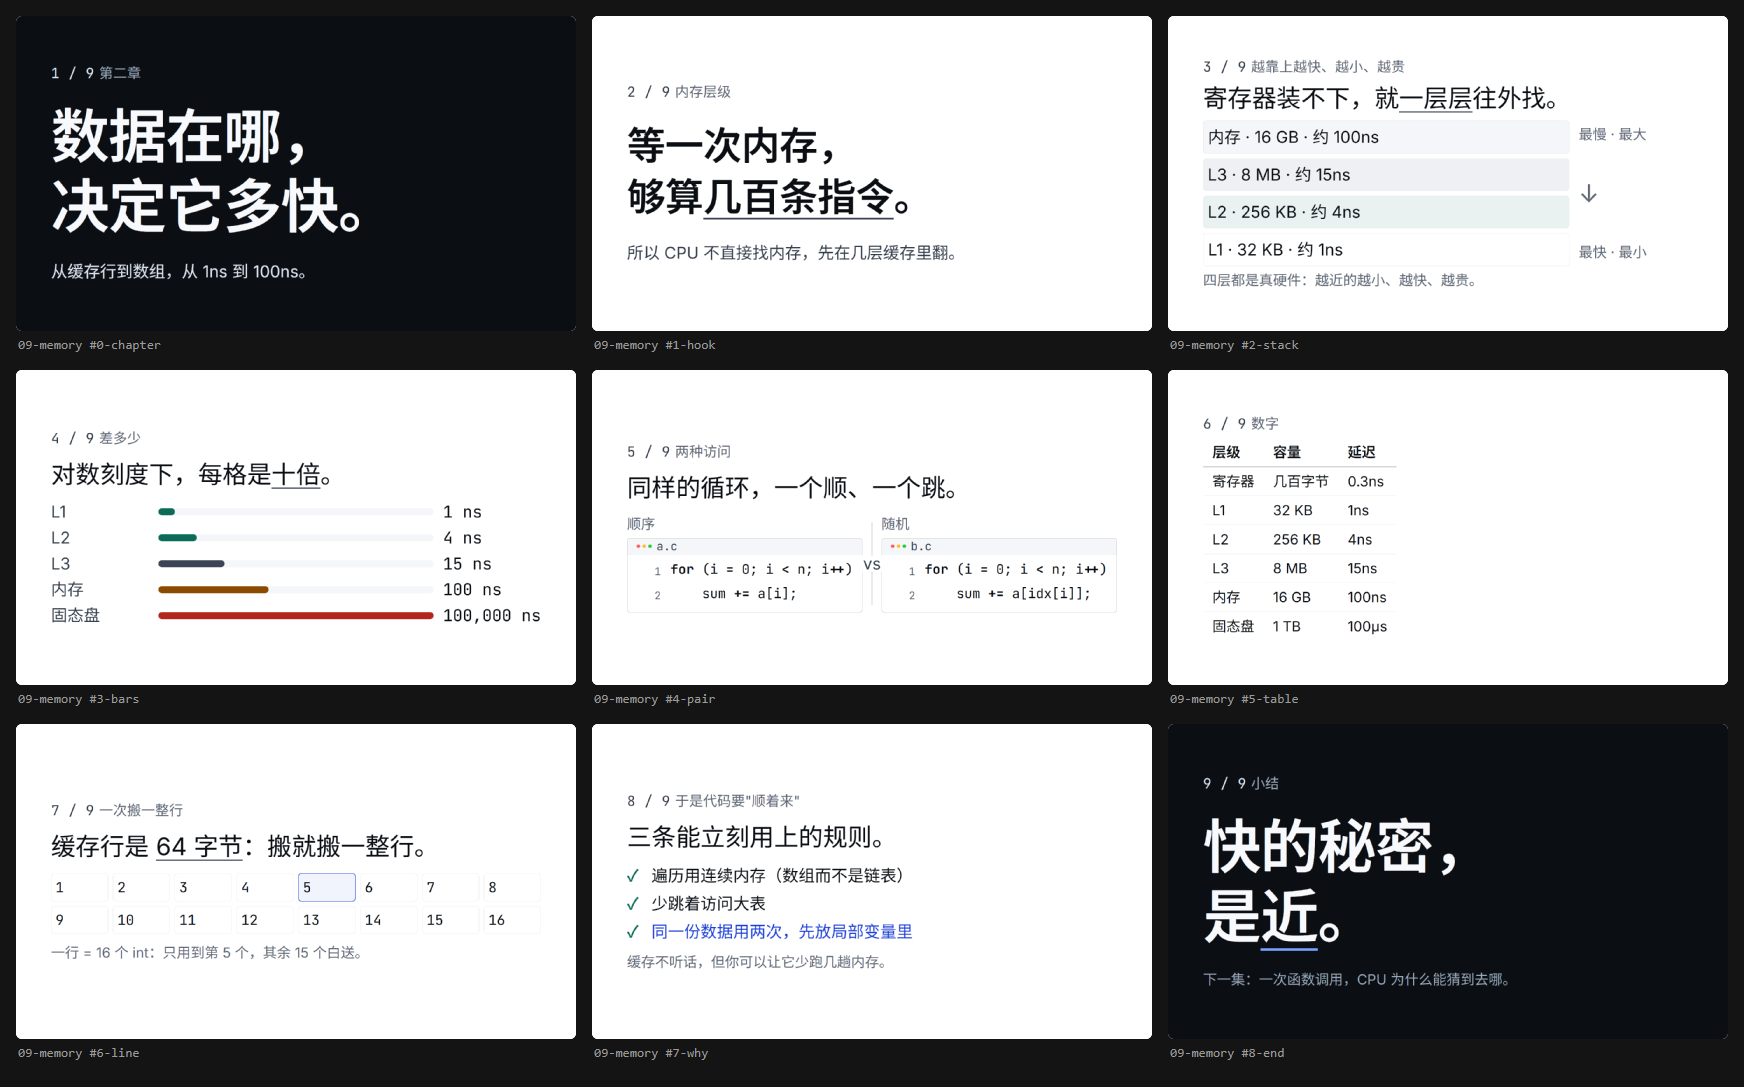
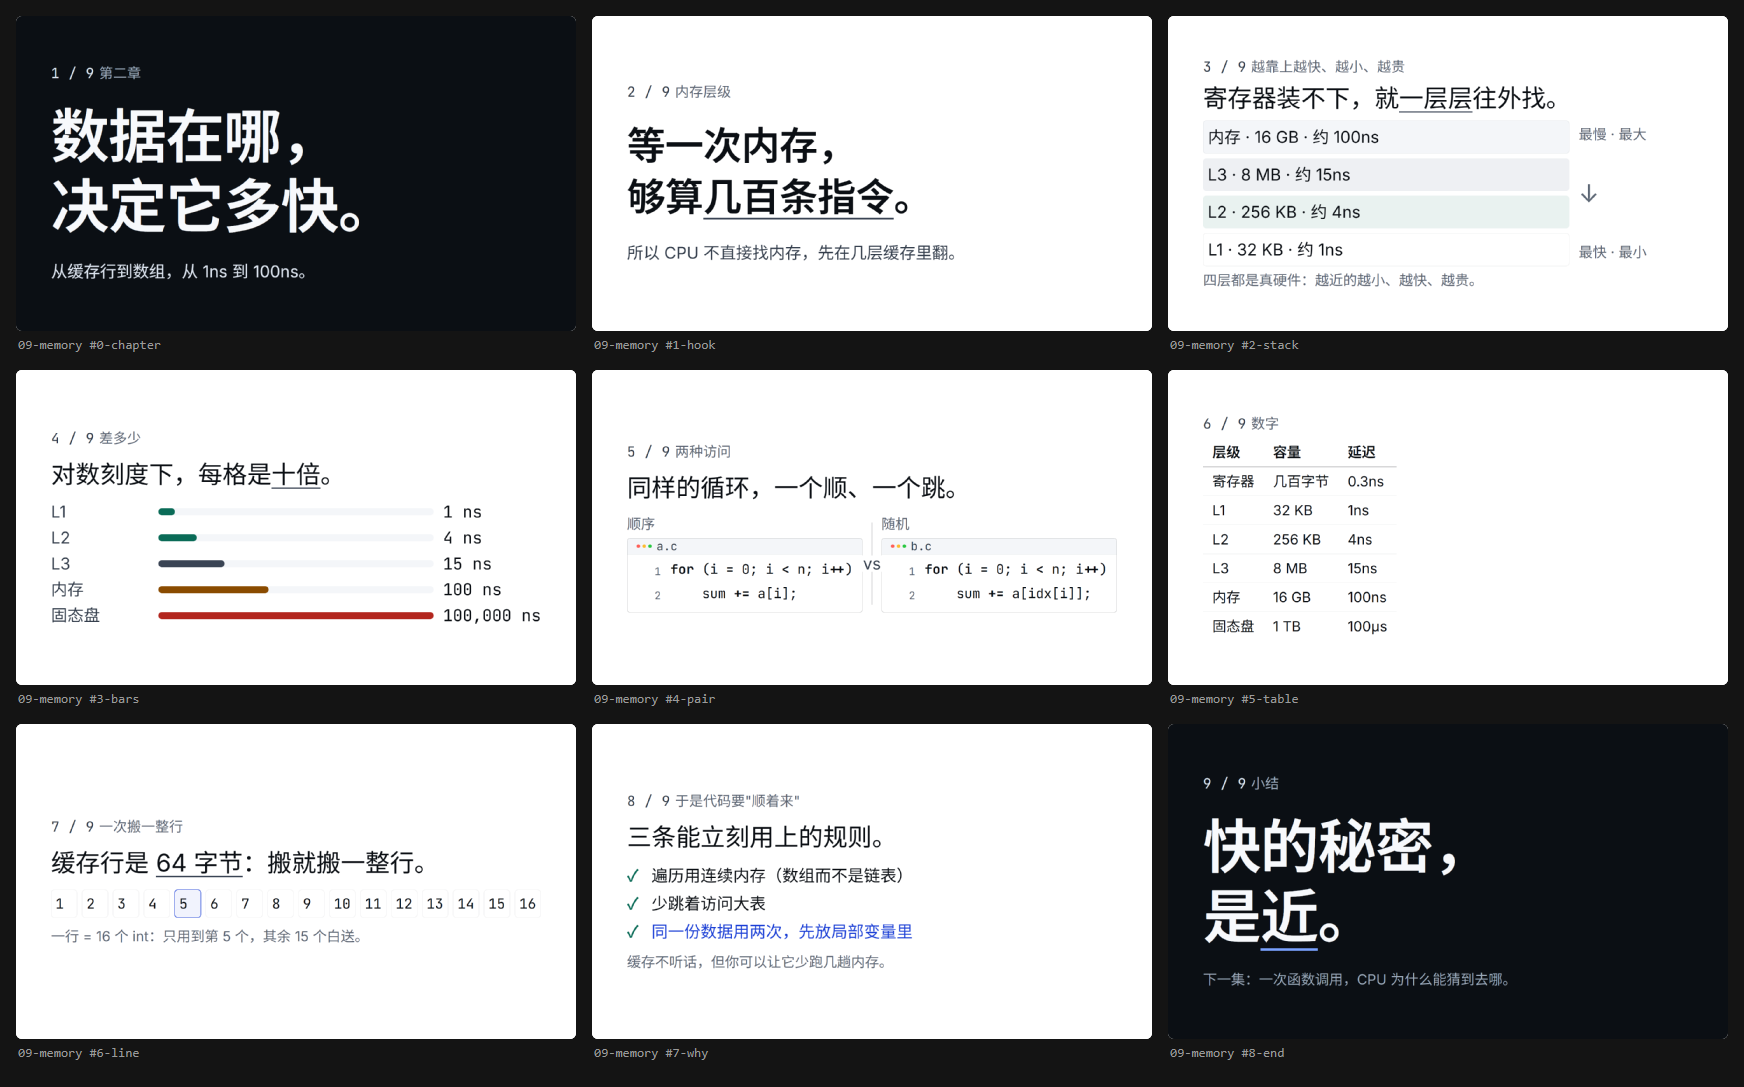
vk-cells 的 cols 上限从 8 放到 16（一行 64 字节终于画得成一行）；组件的 warn() 现在会打印成「提示」，不再静默降级

Changed region(s): [[0.031, 0.7286, 0.3096, 0.8804]]

diff --git a/episodes/09-memory.html b/episodes/09-memory.html
@@ -93,7 +93,7 @@ for (i = 0; i < n; i++)
   <vk-stack gap="normal">
     <vk-label counter="7 / 9">一次搬一整行</vk-label>
     <vk-text size="subhead">缓存行是 <em>64 字节</em>：搬就搬一整行。</vk-text>
-    <vk-cells cols="8" current="5" size="caption">
+    <vk-cells cols="16" current="5" size="caption">
       <li>1</li>
       <li>2</li>
       <li>3</li>

diff --git a/assets/hello/asm.html b/assets/hello/asm.html
@@ -1,5 +1,5 @@
 <vk-page id="o0">
-  <vk-asm file="gcc -O0 · _main" src="../../code/opt/o0.dis" lines="1-9" current="6" size="subhead"></vk-asm>
+  <vk-asm file="gcc -O0 · _main" src="../../code/opt/o0.dis" lines="1-9" current="6" size="body"></vk-asm>
 </vk-page>
 
 <vk-page id="o2">
